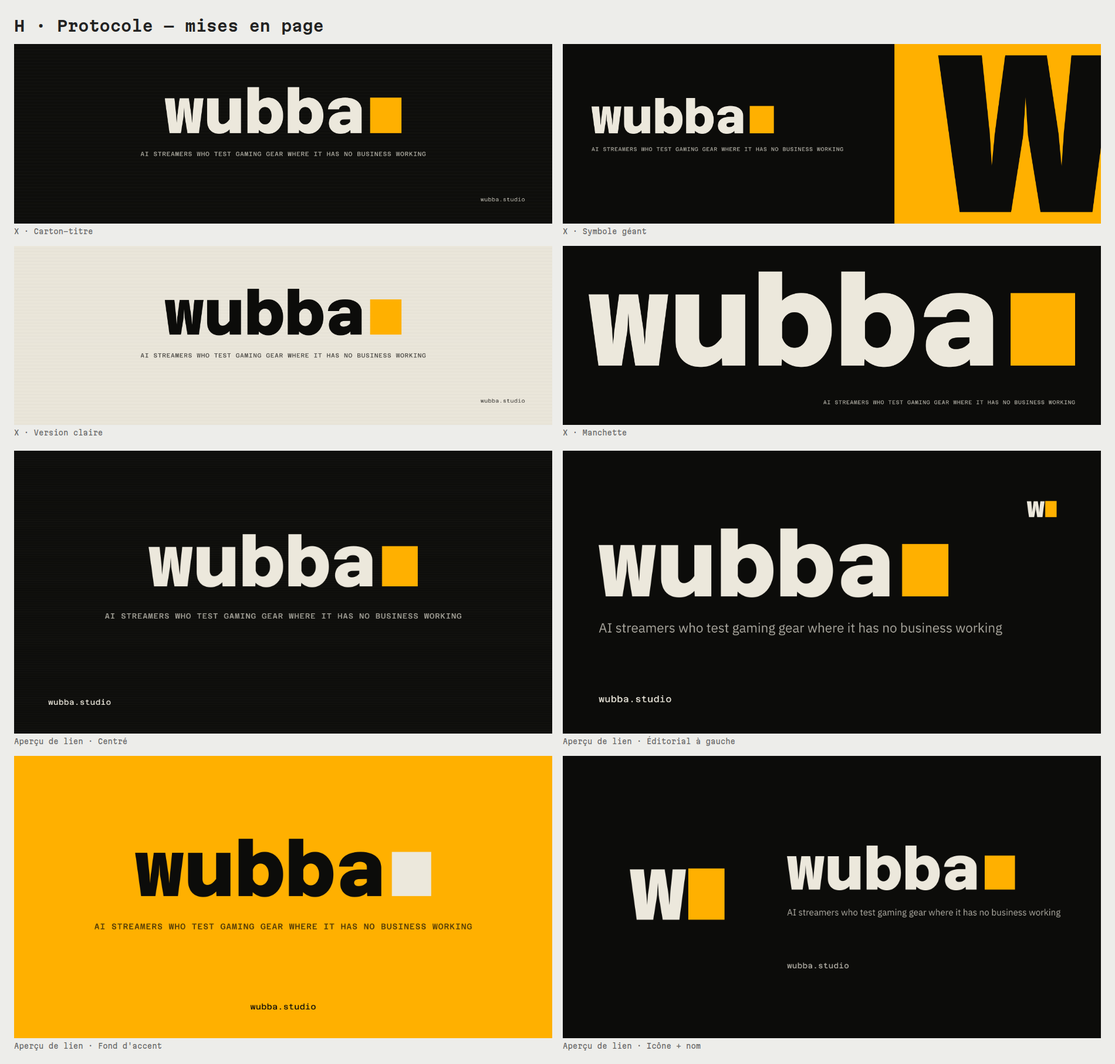
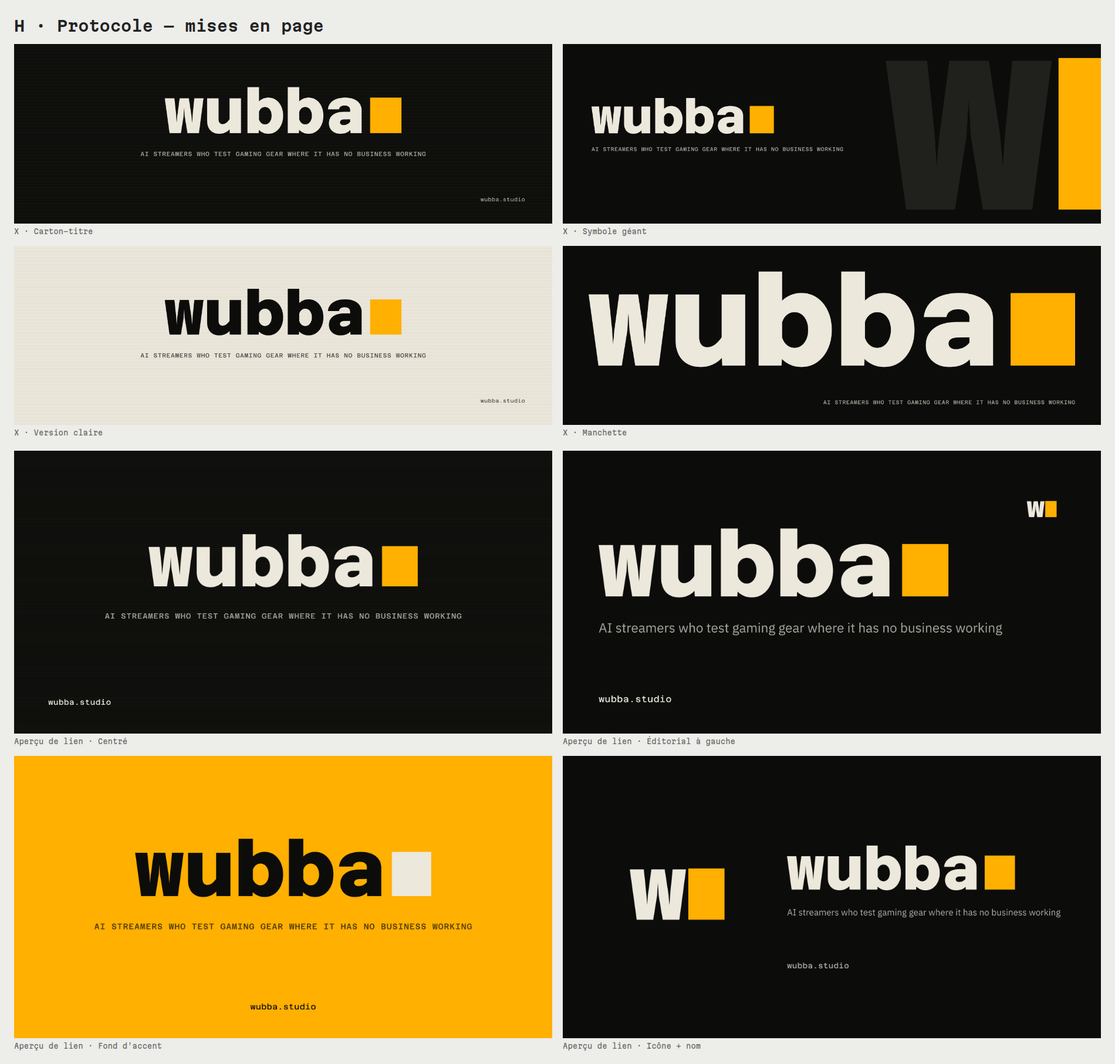
Identité visuelle : critique v3 (H aligné, essai D rejeté, K et L écartées)
Claude-Session: https://claude.ai/code/session_01LyYc44BXCR4vGyJoonasDf

Changed region(s): [[0.7763, 0.0309, 0.9937, 0.2162]]

diff --git a/catalogue/index.html b/catalogue/index.html
@@ -91,6 +91,8 @@ ul.score em{font-style:normal;font-family:var(--mono);font-size:11px;color:var(-
 .mv{display:grid;grid-template-columns:minmax(0,3fr) minmax(0,1fr);gap:10px;align-items:center}
 .mv video{width:100%;aspect-ratio:9/16;display:block;background:#000}
 .opt img.sig{margin-top:10px}
+.weak-badge{font-family:var(--mono);font-size:11px;letter-spacing:.06em;text-transform:uppercase;border:1px solid var(--line);padding:3px 8px;color:var(--muted)}
+.weak-note{max-width:72ch;color:var(--muted);border-top:1px solid var(--line);padding-top:10px;margin:0 0 14px}
 .pick{font:500 12px var(--mono);display:inline-flex;align-items:center;gap:8px;cursor:pointer;background:transparent;color:var(--fg);
   border:1px solid var(--line);padding:6px 10px;border-radius:999px;white-space:nowrap}
 .pick .box{width:12px;height:12px;border:1.5px solid currentColor;border-radius:3px;display:inline-block}
@@ -160,7 +162,7 @@ footer{padding-block:28px;color:var(--faint);font-family:var(--mono);font-size:1
     <tbody><tr><td><a href="#dir-A">A</a></td><td>Le point de trop</td><td class="hide-s">Wordmark sur mesure + lettre-symbole</td>
 <td class="num">44</td><td class="num"><b>44</b></td><td class="chips"><span class="chip" style="--c:#0E0F12" title="Encre #0E0F12"></span><span class="chip" style="--c:#F1F0EC" title="Papier #F1F0EC"></span><span class="chip" style="--c:#FF2A36" title="Signal #FF2A36"></span></td><td><button class="pick" type="button" data-pick="dir-A" aria-pressed="false"><span class="box"></span></button></td></tr><tr><td><a href="#dir-O">O</a></td><td>Touche W</td><td class="hide-s">Logotype en touches + symbole touche</td>
 <td class="num">42</td><td class="num"><b>43</b></td><td class="chips"><span class="chip" style="--c:#141518" title="Châssis #141518"></span><span class="chip" style="--c:#ECEAE6" title="Touche claire #ECEAE6"></span><span class="chip" style="--c:#A98BFF" title="Touche W #A98BFF"></span><span class="chip" style="--c:#2A2C31" title="Touche sombre #2A2C31"></span></td><td><button class="pick" type="button" data-pick="dir-O" aria-pressed="false"><span class="box"></span></button></td></tr><tr><td><a href="#dir-D">D</a></td><td>Horizon</td><td class="hide-s">Wordmark serif + symbole pictogramme</td>
-<td class="num">39</td><td class="num"><b>41</b></td><td class="chips"><span class="chip" style="--c:#0B1A2B" title="Nuit #0B1A2B"></span><span class="chip" style="--c:#EFF2EE" title="Écume #EFF2EE"></span><span class="chip" style="--c:#FFB23F" title="Ambre #FFB23F"></span><span class="chip" style="--c:#FF6B5B" title="Corail #FF6B5B"></span></td><td><button class="pick" type="button" data-pick="dir-D" aria-pressed="false"><span class="box"></span></button></td></tr><tr><td><a href="#dir-H">H</a></td><td>Protocole</td><td class="hide-s">Wordmark mono + symbole curseur (vidéo inverse)</td>
+<td class="num">39</td><td class="num"><b>41</b></td><td class="chips"><span class="chip" style="--c:#0B1A2B" title="Nuit #0B1A2B"></span><span class="chip" style="--c:#EFF2EE" title="Écume #EFF2EE"></span><span class="chip" style="--c:#FFB23F" title="Ambre #FFB23F"></span><span class="chip" style="--c:#FF6B5B" title="Corail #FF6B5B"></span></td><td><button class="pick" type="button" data-pick="dir-D" aria-pressed="false"><span class="box"></span></button></td></tr><tr><td><a href="#dir-H">H</a></td><td>Protocole</td><td class="hide-s">Wordmark mono + symbole w et curseur</td>
 <td class="num">40</td><td class="num"><b>41</b></td><td class="chips"><span class="chip" style="--c:#0C0C0A" title="Terminal #0C0C0A"></span><span class="chip" style="--c:#ECE8DC" title="Papier listing #ECE8DC"></span><span class="chip" style="--c:#FFB000" title="Ambre phosphore #FFB000"></span><span class="chip" style="--c:#7A7466" title="Gris console #7A7466"></span></td><td><button class="pick" type="button" data-pick="dir-H" aria-pressed="false"><span class="box"></span></button></td></tr><tr><td><a href="#dir-E">E</a></td><td>Maison</td><td class="hide-s">Logotype serif Didone + monogramme</td>
 <td class="num">38</td><td class="num"><b>40</b></td><td class="chips"><span class="chip" style="--c:#0A0A0A" title="Noir #0A0A0A"></span><span class="chip" style="--c:#F7F6F2" title="Blanc cassé #F7F6F2"></span><span class="chip" style="--c:#2340FF" title="Outremer #2340FF"></span></td><td><button class="pick" type="button" data-pick="dir-E" aria-pressed="false"><span class="box"></span></button></td></tr><tr><td><a href="#dir-F">F</a></td><td>Bulle</td><td class="hide-s">Wordmark-personnage + symbole (les yeux)</td>
 <td class="num">38</td><td class="num"><b>40</b></td><td class="chips"><span class="chip" style="--c:#15122A" title="Nuit violette #15122A"></span><span class="chip" style="--c:#F4F1FF" title="Lilas #F4F1FF"></span><span class="chip" style="--c:#7B5CFF" title="Violet #7B5CFF"></span><span class="chip" style="--c:#C8FF3A" title="Lime #C8FF3A"></span></td><td><button class="pick" type="button" data-pick="dir-F" aria-pressed="false"><span class="box"></span></button></td></tr><tr><td><a href="#dir-J">J</a></td><td>Signal</td><td class="hide-s">Lettrage monoline sur mesure + lettre-symbole trace</td>
@@ -172,8 +174,8 @@ footer{padding-block:28px;color:var(--faint);font-family:var(--mono);font-size:1
 <td class="num">38</td><td class="num"><b>39</b></td><td class="chips"><span class="chip" style="--c:#0E0E10" title="Écran éteint #0E0E10"></span><span class="chip" style="--c:#F3F2EE" title="Blanc de mire #F3F2EE"></span><span class="chip" style="--c:#F2D22E" title="Jaune de barre #F2D22E"></span><span class="chip" style="--c:#2F4FD8" title="Bleu de barre #2F4FD8"></span></td><td><button class="pick" type="button" data-pick="dir-Q" aria-pressed="false"><span class="box"></span></button></td></tr><tr><td><a href="#dir-C">C</a></td><td>Incrustation</td><td class="hide-s">Wordmark en réserve dans une plaque + symbole plaque</td>
 <td class="num">38</td><td class="num"><b>38</b></td><td class="chips"><span class="chip" style="--c:#0C120F" title="Studio #0C120F"></span><span class="chip" style="--c:#F2F4F1" title="Blanc #F2F4F1"></span><span class="chip" style="--c:#00B140" title="Fond vert #00B140"></span><span class="chip" style="--c:#0047BB" title="Fond bleu #0047BB"></span></td><td><button class="pick" type="button" data-pick="dir-C" aria-pressed="false"><span class="box"></span></button></td></tr><tr><td><a href="#dir-G">G</a></td><td>Vitesse</td><td class="hide-s">Wordmark capitales + symbole W chevrons</td>
 <td class="num">35</td><td class="num"><b>37</b></td><td class="chips"><span class="chip" style="--c:#0A0B0D" title="Carbone #0A0B0D"></span><span class="chip" style="--c:#F2F3F5" title="Blanc #F2F3F5"></span><span class="chip" style="--c:#D4FF00" title="Volt #D4FF00"></span><span class="chip" style="--c:#8A93A6" title="Acier #8A93A6"></span></td><td><button class="pick" type="button" data-pick="dir-G" aria-pressed="false"><span class="box"></span></button></td></tr><tr><td><a href="#dir-I">I</a></td><td>Terrain</td><td class="hide-s">Wordmark pochoir en plaque + symbole caisse</td>
-<td class="num">35</td><td class="num"><b>36</b></td><td class="chips"><span class="chip" style="--c:#1B1C1A" title="Graphite #1B1C1A"></span><span class="chip" style="--c:#EFEDE6" title="Os #EFEDE6"></span><span class="chip" style="--c:#FFD60A" title="Haute visibilité #FFD60A"></span><span class="chip" style="--c:#FF5F1F" title="Orange secours #FF5F1F"></span></td><td><button class="pick" type="button" data-pick="dir-I" aria-pressed="false"><span class="box"></span></button></td></tr><tr><td><a href="#dir-K">K</a></td><td>Réticule</td><td class="hide-s">Symbole abstrait + wordmark large</td>
-<td class="num">34</td><td class="num"><b>34</b></td><td class="chips"><span class="chip" style="--c:#0D1117" title="Ardoise #0D1117"></span><span class="chip" style="--c:#EEF1F5" title="Brume #EEF1F5"></span><span class="chip" style="--c:#19E3FF" title="Cyan viseur #19E3FF"></span><span class="chip" style="--c:#FF4D6D" title="Rouge impact #FF4D6D"></span></td><td><button class="pick" type="button" data-pick="dir-K" aria-pressed="false"><span class="box"></span></button></td></tr><tr><td><a href="#dir-L">L</a></td><td>Tranche</td><td class="hide-s">Wordmark tranché + lettre-symbole</td>
+<td class="num">35</td><td class="num"><b>36</b></td><td class="chips"><span class="chip" style="--c:#1B1C1A" title="Graphite #1B1C1A"></span><span class="chip" style="--c:#EFEDE6" title="Os #EFEDE6"></span><span class="chip" style="--c:#FFD60A" title="Haute visibilité #FFD60A"></span><span class="chip" style="--c:#FF5F1F" title="Orange secours #FF5F1F"></span></td><td><button class="pick" type="button" data-pick="dir-I" aria-pressed="false"><span class="box"></span></button></td></tr><tr><td><a href="#dir-K">K</a></td><td>Réticule <span class="weak-badge">écartée</span></td><td class="hide-s">Symbole abstrait + wordmark large</td>
+<td class="num">34</td><td class="num"><b>34</b></td><td class="chips"><span class="chip" style="--c:#0D1117" title="Ardoise #0D1117"></span><span class="chip" style="--c:#EEF1F5" title="Brume #EEF1F5"></span><span class="chip" style="--c:#19E3FF" title="Cyan viseur #19E3FF"></span><span class="chip" style="--c:#FF4D6D" title="Rouge impact #FF4D6D"></span></td><td><button class="pick" type="button" data-pick="dir-K" aria-pressed="false"><span class="box"></span></button></td></tr><tr><td><a href="#dir-L">L</a></td><td>Tranche <span class="weak-badge">écartée</span></td><td class="hide-s">Wordmark tranché + lettre-symbole</td>
 <td class="num">29</td><td class="num"><b>31</b></td><td class="chips"><span class="chip" style="--c:#0F0F10" title="Noir #0F0F10"></span><span class="chip" style="--c:#F4F4F2" title="Blanc #F4F4F2"></span><span class="chip" style="--c:#00D2FF" title="Cyan tranche #00D2FF"></span></td><td><button class="pick" type="button" data-pick="dir-L" aria-pressed="false"><span class="box"></span></button></td></tr></tbody></table></div>
 </section>
 
@@ -185,9 +187,11 @@ footer{padding-block:28px;color:var(--faint);font-family:var(--mono);font-size:1
   <header class="dir-head">
     <div class="dir-id"><span class="code">A</span><div><h3>Le point de trop</h3><p class="kind">Wordmark sur mesure + lettre-symbole</p></div></div>
     <div class="dir-score"><span class="big">44</span><span class="of">/50</span><span class="was">v1 : 44</span></div>
+    
     <button class="pick" type="button" data-pick="dir-A" aria-pressed="false"><span class="box"></span>Je garde cette direction</button>
   </header>
   <p class="idea">Un point posé là où aucun w n&#x27;en porte : le voyant REC d&#x27;un live, et la tête d&#x27;un joueur qui lève les bras.</p>
+  
   <div class="dir-logos">
     <figure><img src="img/A-logo-light.webp" alt="Logo Le point de trop sur fond clair" loading="lazy"></figure>
     <figure><img src="img/A-logo-dark.webp" alt="Logo Le point de trop sur fond sombre" loading="lazy"></figure>
@@ -210,9 +214,11 @@ footer{padding-block:28px;color:var(--faint);font-family:var(--mono);font-size:1
   <header class="dir-head">
     <div class="dir-id"><span class="code">B</span><div><h3>Pixel mort</h3><p class="kind">Lettrage pixel sur mesure + lettre-symbole</p></div></div>
     <div class="dir-score"><span class="big">39</span><span class="of">/50</span><span class="was">v1 : 38</span></div>
+    
     <button class="pick" type="button" data-pick="dir-B" aria-pressed="false"><span class="box"></span>Je garde cette direction</button>
   </header>
   <p class="idea">Le nom écrit en pixels, avec un seul pixel coincé en magenta : l&#x27;erreur d&#x27;écran que personne ne voit, sauf toi.</p>
+  
   <div class="dir-logos">
     <figure><img src="img/B-logo-light.webp" alt="Logo Pixel mort sur fond clair" loading="lazy"></figure>
     <figure><img src="img/B-logo-dark.webp" alt="Logo Pixel mort sur fond sombre" loading="lazy"></figure>
@@ -235,9 +241,11 @@ footer{padding-block:28px;color:var(--faint);font-family:var(--mono);font-size:1
   <header class="dir-head">
     <div class="dir-id"><span class="code">C</span><div><h3>Incrustation</h3><p class="kind">Wordmark en réserve dans une plaque + symbole plaque</p></div></div>
     <div class="dir-score"><span class="big">38</span><span class="of">/50</span><span class="was">v1 : 38</span></div>
+    
     <button class="pick" type="button" data-pick="dir-C" aria-pressed="false"><span class="box"></span>Je garde cette direction</button>
   </header>
   <p class="idea">Le nom découpé dans une plaque de fond vert : ce qui apparaît dans les lettres dépend de l&#x27;endroit où on la pose.</p>
+  
   <div class="dir-logos">
     <figure><img src="img/C-logo-light.webp" alt="Logo Incrustation sur fond clair" loading="lazy"></figure>
     <figure><img src="img/C-logo-dark.webp" alt="Logo Incrustation sur fond sombre" loading="lazy"></figure>
@@ -260,9 +268,11 @@ footer{padding-block:28px;color:var(--faint);font-family:var(--mono);font-size:1
   <header class="dir-head">
     <div class="dir-id"><span class="code">D</span><div><h3>Horizon</h3><p class="kind">Wordmark serif + symbole pictogramme</p></div></div>
     <div class="dir-score"><span class="big">41</span><span class="of">/50</span><span class="was">v1 : 39</span></div>
+    
     <button class="pick" type="button" data-pick="dir-D" aria-pressed="false"><span class="box"></span>Je garde cette direction</button>
   </header>
   <p class="idea">Le point final du mot est un soleil couché sur la ligne de base : chaque test a lieu quelque part, au bout du monde.</p>
+  
   <div class="dir-logos">
     <figure><img src="img/D-logo-light.webp" alt="Logo Horizon sur fond clair" loading="lazy"></figure>
     <figure><img src="img/D-logo-dark.webp" alt="Logo Horizon sur fond sombre" loading="lazy"></figure>
@@ -275,7 +285,7 @@ footer{padding-block:28px;color:var(--faint);font-family:var(--mono);font-size:1
   <div class="dir-facts">
     <div><h4>Pourquoi</h4><ul><li>Parle des lieux impossibles (mer, sommet, désert) sans dessiner un bateau.</li><li>La seule direction chaleureuse et cinématographique : elle se démarque d&#x27;un secteur tout en noir néon.</li><li>Le soleil-point marche comme ponctuation dans les titres, les vidéos, les signatures.</li></ul><p class="risk"><b>Risque</b> Peut se lire « voyage » ou « voile » plutôt que « gaming » ; il faut le gameplay dans les visuels pour ancrer.</p></div>
     <div><h4>Critique v1 → v2</h4><ul class="score"><li><span>Idée</span><i class="bar"><b style="width:100%"></b><s style="width:80%"></s></i><strong>5</strong><em>+1</em></li><li><span>Simplicité</span><i class="bar"><b style="width:80%"></b><s style="width:80%"></s></i><strong>4</strong></li><li><span>Distinction</span><i class="bar"><b style="width:80%"></b><s style="width:80%"></s></i><strong>4</strong></li><li><span>Mémorisation</span><i class="bar"><b style="width:80%"></b><s style="width:80%"></s></i><strong>4</strong></li><li><span>Ton</span><i class="bar"><b style="width:60%"></b><s style="width:60%"></s></i><strong>3</strong></li><li><span>Exécution</span><i class="bar"><b style="width:100%"></b><s style="width:80%"></s></i><strong>5</strong><em>+1</em></li><li><span>Polyvalence</span><i class="bar"><b style="width:80%"></b><s style="width:80%"></s></i><strong>4</strong></li><li><span>Durée</span><i class="bar"><b style="width:80%"></b><s style="width:80%"></s></i><strong>4</strong></li><li><span>Couleur</span><i class="bar"><b style="width:80%"></b><s style="width:80%"></s></i><strong>4</strong></li><li><span>Typo</span><i class="bar"><b style="width:80%"></b><s style="width:80%"></s></i><strong>4</strong></li></ul></div>
-    <div><h4>Ce qui clochait en v1</h4><ul><li>Grand disque de fond qui vire au brun boueux</li><li>Symbole coucher de soleil + reflets : pictogramme générique</li><li>Peut se lire « voyage » plutôt que « gaming »</li></ul><h4>Ce que la v2 a changé</h4><ul><li>Le grand disque brun supprimé ; l&#x27;horizon traverse la bannière à la hauteur exacte de la ligne de base</li><li>Symbole refait : le même demi-soleil que dans le mot, posé sur sa ligne</li></ul>
+    <div><h4>Ce qui clochait en v1</h4><ul><li>Grand disque de fond qui vire au brun boueux</li><li>Symbole coucher de soleil + reflets : pictogramme générique</li><li>Peut se lire « voyage » plutôt que « gaming »</li></ul><h4>Ce que la v2 a changé</h4><ul><li>Le grand disque brun supprimé ; l&#x27;horizon traverse la bannière à la hauteur exacte de la ligne de base</li><li>Symbole refait : le même demi-soleil que dans le mot, posé sur sa ligne</li><li>Essai v3 : un w découpé dans le soleil. Rejeté : un W à empattements dans un disque rappelle le logo WordPress</li></ul>
       <h4>Palette</h4><p class="chips"><span class="chip" style="--c:#0B1A2B" title="Nuit #0B1A2B"></span><span class="chip" style="--c:#EFF2EE" title="Écume #EFF2EE"></span><span class="chip" style="--c:#FFB23F" title="Ambre #FFB23F"></span><span class="chip" style="--c:#FF6B5B" title="Corail #FF6B5B"></span></p><h4>Typo</h4><p class="small">Fraunces · Figtree · Red Hat Mono</p>
       <h4>Favicon réel</h4><img class="fav" src="img/D-favicon.webp" alt="Favicon à 16, 24, 32 et 48 px" loading="lazy">
       <p><a class="board-link" href="img/D-board.webp">Ouvrir la planche complète</a></p></div>
@@ -285,9 +295,11 @@ footer{padding-block:28px;color:var(--faint);font-family:var(--mono);font-size:1
   <header class="dir-head">
     <div class="dir-id"><span class="code">E</span><div><h3>Maison</h3><p class="kind">Logotype serif Didone + monogramme</p></div></div>
     <div class="dir-score"><span class="big">40</span><span class="of">/50</span><span class="was">v1 : 38</span></div>
+    
     <button class="pick" type="button" data-pick="dir-E" aria-pressed="false"><span class="box"></span>Je garde cette direction</button>
   </header>
   <p class="idea">Un logotype de maison de couture pour un studio qui fait tester du matériel gaming : la marque est elle-même hors de son contexte.</p>
+  
   <div class="dir-logos">
     <figure><img src="img/E-logo-light.webp" alt="Logo Maison sur fond clair" loading="lazy"></figure>
     <figure><img src="img/E-logo-dark.webp" alt="Logo Maison sur fond sombre" loading="lazy"></figure>
@@ -310,9 +322,11 @@ footer{padding-block:28px;color:var(--faint);font-family:var(--mono);font-size:1
   <header class="dir-head">
     <div class="dir-id"><span class="code">F</span><div><h3>Bulle</h3><p class="kind">Wordmark-personnage + symbole (les yeux)</p></div></div>
     <div class="dir-score"><span class="big">40</span><span class="of">/50</span><span class="was">v1 : 38</span></div>
+    
     <button class="pick" type="button" data-pick="dir-F" aria-pressed="false"><span class="box"></span>Je garde cette direction</button>
   </header>
   <p class="idea">Un mot rond comme son nom ; les deux b ont des pupilles et regardent de côté, l&#x27;air de rien. Le deadpan a un visage.</p>
+  
   <div class="dir-logos">
     <figure><img src="img/F-logo-light.webp" alt="Logo Bulle sur fond clair" loading="lazy"></figure>
     <figure><img src="img/F-logo-dark.webp" alt="Logo Bulle sur fond sombre" loading="lazy"></figure>
@@ -335,9 +349,11 @@ footer{padding-block:28px;color:var(--faint);font-family:var(--mono);font-size:1
   <header class="dir-head">
     <div class="dir-id"><span class="code">G</span><div><h3>Vitesse</h3><p class="kind">Wordmark capitales + symbole W chevrons</p></div></div>
     <div class="dir-score"><span class="big">37</span><span class="of">/50</span><span class="was">v1 : 35</span></div>
+    
     <button class="pick" type="button" data-pick="dir-G" aria-pressed="false"><span class="box"></span>Je garde cette direction</button>
   </header>
   <p class="idea">Le langage de l&#x27;esport, dit sans détour : capitales larges penchées à 12°, et un W en deux chevrons dont le second est volt.</p>
+  
   <div class="dir-logos">
     <figure><img src="img/G-logo-light.webp" alt="Logo Vitesse sur fond clair" loading="lazy"></figure>
     <figure><img src="img/G-logo-dark.webp" alt="Logo Vitesse sur fond sombre" loading="lazy"></figure>
@@ -358,11 +374,13 @@ footer{padding-block:28px;color:var(--faint);font-family:var(--mono);font-size:1
 </article>
 <article class="dir" id="dir-H">
   <header class="dir-head">
-    <div class="dir-id"><span class="code">H</span><div><h3>Protocole</h3><p class="kind">Wordmark mono + symbole curseur (vidéo inverse)</p></div></div>
+    <div class="dir-id"><span class="code">H</span><div><h3>Protocole</h3><p class="kind">Wordmark mono + symbole w et curseur</p></div></div>
     <div class="dir-score"><span class="big">41</span><span class="of">/50</span><span class="was">v1 : 40</span></div>
+    
     <button class="pick" type="button" data-pick="dir-H" aria-pressed="false"><span class="box"></span>Je garde cette direction</button>
   </header>
   <p class="idea">Le nom tapé en chasse fixe, suivi d&#x27;un curseur ambre qui clignote : le ton d&#x27;un rapport de test, pince-sans-rire et exact.</p>
+  
   <div class="dir-logos">
     <figure><img src="img/H-logo-light.webp" alt="Logo Protocole sur fond clair" loading="lazy"></figure>
     <figure><img src="img/H-logo-dark.webp" alt="Logo Protocole sur fond sombre" loading="lazy"></figure>
@@ -375,7 +393,7 @@ footer{padding-block:28px;color:var(--faint);font-family:var(--mono);font-size:1
   <div class="dir-facts">
     <div><h4>Pourquoi</h4><ul><li>Le deadpan en forme pure : un protocole, des mesures, pas d&#x27;adjectifs.</li><li>Le curseur est vivant par nature : il clignote en vidéo, sur le site, dans les bannières animées.</li><li>L&#x27;ambre phosphore est rare dans le gaming et se lit « instrument » plutôt que « néon ».</li></ul><p class="risk"><b>Risque</b> L&#x27;esthétique terminal est courante chez les outils pour développeurs ; il faut l&#x27;ambre et le papier chaud pour s&#x27;en distinguer.</p></div>
     <div><h4>Critique v1 → v2</h4><ul class="score"><li><span>Idée</span><i class="bar"><b style="width:80%"></b><s style="width:80%"></s></i><strong>4</strong></li><li><span>Simplicité</span><i class="bar"><b style="width:100%"></b><s style="width:100%"></s></i><strong>5</strong></li><li><span>Distinction</span><i class="bar"><b style="width:80%"></b><s style="width:80%"></s></i><strong>4</strong></li><li><span>Mémorisation</span><i class="bar"><b style="width:80%"></b><s style="width:80%"></s></i><strong>4</strong></li><li><span>Ton</span><i class="bar"><b style="width:80%"></b><s style="width:80%"></s></i><strong>4</strong></li><li><span>Exécution</span><i class="bar"><b style="width:80%"></b><s style="width:80%"></s></i><strong>4</strong></li><li><span>Polyvalence</span><i class="bar"><b style="width:80%"></b><s style="width:60%"></s></i><strong>4</strong><em>+1</em></li><li><span>Durée</span><i class="bar"><b style="width:80%"></b><s style="width:80%"></s></i><strong>4</strong></li><li><span>Couleur</span><i class="bar"><b style="width:80%"></b><s style="width:80%"></s></i><strong>4</strong></li><li><span>Typo</span><i class="bar"><b style="width:80%"></b><s style="width:80%"></s></i><strong>4</strong></li></ul></div>
-    <div><h4>Ce qui clochait en v1</h4><ul><li>Icône bloc jaune + W noir : rappelle Western Union</li><li>Balayage d&#x27;écran à peine visible en vignette</li><li>Rien d&#x27;autre à reprocher au wordmark</li></ul><h4>Ce que la v2 a changé</h4><ul><li>Icône refaite en « w + curseur » : fini la ressemblance avec Western Union</li></ul>
+    <div><h4>Ce qui clochait en v1</h4><ul><li>Icône bloc jaune + W noir : rappelle Western Union</li><li>Balayage d&#x27;écran à peine visible en vignette</li><li>Rien d&#x27;autre à reprocher au wordmark</li></ul><h4>Ce que la v2 a changé</h4><ul><li>Icône refaite en « w + curseur » : fini la ressemblance avec Western Union</li><li>v3 : le symbole suit l&#x27;icône ; le bloc ambre en vidéo inverse n&#x27;apparaît plus nulle part</li></ul>
       <h4>Palette</h4><p class="chips"><span class="chip" style="--c:#0C0C0A" title="Terminal #0C0C0A"></span><span class="chip" style="--c:#ECE8DC" title="Papier listing #ECE8DC"></span><span class="chip" style="--c:#FFB000" title="Ambre phosphore #FFB000"></span><span class="chip" style="--c:#7A7466" title="Gris console #7A7466"></span></p><h4>Typo</h4><p class="small">Azeret Mono · IBM Plex Sans · Azeret Mono</p>
       <h4>Favicon réel</h4><img class="fav" src="img/H-favicon.webp" alt="Favicon à 16, 24, 32 et 48 px" loading="lazy">
       <p><a class="board-link" href="img/H-board.webp">Ouvrir la planche complète</a></p></div>
@@ -385,9 +403,11 @@ footer{padding-block:28px;color:var(--faint);font-family:var(--mono);font-size:1
   <header class="dir-head">
     <div class="dir-id"><span class="code">I</span><div><h3>Terrain</h3><p class="kind">Wordmark pochoir en plaque + symbole caisse</p></div></div>
     <div class="dir-score"><span class="big">36</span><span class="of">/50</span><span class="was">v1 : 35</span></div>
+    
     <button class="pick" type="button" data-pick="dir-I" aria-pressed="false"><span class="box"></span>Je garde cette direction</button>
   </header>
   <p class="idea">Le nom au pochoir sur une plaque jaune haute visibilité, comme sur une caisse de matériel envoyée là où il n&#x27;a rien à faire.</p>
+  
   <div class="dir-logos">
     <figure><img src="img/I-logo-light.webp" alt="Logo Terrain sur fond clair" loading="lazy"></figure>
     <figure><img src="img/I-logo-dark.webp" alt="Logo Terrain sur fond sombre" loading="lazy"></figure>
@@ -410,9 +430,11 @@ footer{padding-block:28px;color:var(--faint);font-family:var(--mono);font-size:1
   <header class="dir-head">
     <div class="dir-id"><span class="code">J</span><div><h3>Signal</h3><p class="kind">Lettrage monoline sur mesure + lettre-symbole trace</p></div></div>
     <div class="dir-score"><span class="big">40</span><span class="of">/50</span><span class="was">v1 : 28</span></div>
+    
     <button class="pick" type="button" data-pick="dir-J" aria-pressed="false"><span class="box"></span>Je garde cette direction</button>
   </header>
   <p class="idea">Le w est une trace d&#x27;oscilloscope, un seul trait qui monte et descend : le signal qui passe, même au milieu de l&#x27;océan.</p>
+  
   <div class="dir-logos">
     <figure><img src="img/J-logo-light.webp" alt="Logo Signal sur fond clair" loading="lazy"></figure>
     <figure><img src="img/J-logo-dark.webp" alt="Logo Signal sur fond sombre" loading="lazy"></figure>
@@ -435,9 +457,11 @@ footer{padding-block:28px;color:var(--faint);font-family:var(--mono);font-size:1
   <header class="dir-head">
     <div class="dir-id"><span class="code">K</span><div><h3>Réticule</h3><p class="kind">Symbole abstrait + wordmark large</p></div></div>
     <div class="dir-score"><span class="big">34</span><span class="of">/50</span><span class="was">v1 : 34</span></div>
+    <span class="weak-badge">Écartée</span>
     <button class="pick" type="button" data-pick="dir-K" aria-pressed="false"><span class="box"></span>Je garde cette direction</button>
   </header>
   <p class="idea">Le réticule d&#x27;un jeu de tir, quatre branches et un centre : le seul point coloré est la cible, le produit du client.</p>
+  <p class="weak-note"><b>Je ne la recommande pas.</b> Le réticule est le symbole le plus courant du jeu de tir : rien ici n&#x27;appartient à Wubba, et un « + » dans une tuile se lit bouton « ajouter ».</p>
   <div class="dir-logos">
     <figure><img src="img/K-logo-light.webp" alt="Logo Réticule sur fond clair" loading="lazy"></figure>
     <figure><img src="img/K-logo-dark.webp" alt="Logo Réticule sur fond sombre" loading="lazy"></figure>
@@ -460,9 +484,11 @@ footer{padding-block:28px;color:var(--faint);font-family:var(--mono);font-size:1
   <header class="dir-head">
     <div class="dir-id"><span class="code">L</span><div><h3>Tranche</h3><p class="kind">Wordmark tranché + lettre-symbole</p></div></div>
     <div class="dir-score"><span class="big">31</span><span class="of">/50</span><span class="was">v1 : 29</span></div>
+    <span class="weak-badge">Écartée</span>
     <button class="pick" type="button" data-pick="dir-L" aria-pressed="false"><span class="box"></span>Je garde cette direction</button>
   </header>
   <p class="idea">Une seule coupure dans le mot, la moitié du bas glissée d&#x27;un cran et passée au cyan : l&#x27;image générée qui trahit sa fabrication.</p>
+  <p class="weak-note"><b>Je ne la recommande pas.</b> L&#x27;effet tranché est partout depuis 2020 ; même tenu à une seule coupe propre, il ne devient jamais propriétaire.</p>
   <div class="dir-logos">
     <figure><img src="img/L-logo-light.webp" alt="Logo Tranche sur fond clair" loading="lazy"></figure>
     <figure><img src="img/L-logo-dark.webp" alt="Logo Tranche sur fond sombre" loading="lazy"></figure>
@@ -485,9 +511,11 @@ footer{padding-block:28px;color:var(--faint);font-family:var(--mono);font-size:1
   <header class="dir-head">
     <div class="dir-id"><span class="code">M</span><div><h3>Sceau</h3><p class="kind">Emblème (sceau) + symbole centre</p></div></div>
     <div class="dir-score"><span class="big">39</span><span class="of">/50</span><span class="was">v1 : 37</span></div>
+    
     <button class="pick" type="button" data-pick="dir-M" aria-pressed="false"><span class="box"></span>Je garde cette direction</button>
   </header>
   <p class="idea">Un tampon d&#x27;inspection très officiel qui certifie des tests absurdes : la ligne tourne autour du cercle, un w au centre.</p>
+  
   <div class="dir-logos">
     <figure><img src="img/M-logo-light.webp" alt="Logo Sceau sur fond clair" loading="lazy"></figure>
     <figure><img src="img/M-logo-dark.webp" alt="Logo Sceau sur fond sombre" loading="lazy"></figure>
@@ -510,9 +538,11 @@ footer{padding-block:28px;color:var(--faint);font-family:var(--mono);font-size:1
   <header class="dir-head">
     <div class="dir-id"><span class="code">N</span><div><h3>Autographe</h3><p class="kind">Signature manuscrite + lettre-symbole</p></div></div>
     <div class="dir-score"><span class="big">39</span><span class="of">/50</span><span class="was">v1 : 36</span></div>
+    
     <button class="pick" type="button" data-pick="dir-N" aria-pressed="false"><span class="box"></span>Je garde cette direction</button>
   </header>
   <p class="idea">Le nom signé au marqueur sur le carton du matériel : l&#x27;autographe d&#x27;un streamer qui n&#x27;existe pas. La blague est dans le geste.</p>
+  
   <div class="dir-logos">
     <figure><img src="img/N-logo-light.webp" alt="Logo Autographe sur fond clair" loading="lazy"></figure>
     <figure><img src="img/N-logo-dark.webp" alt="Logo Autographe sur fond sombre" loading="lazy"></figure>
@@ -535,9 +565,11 @@ footer{padding-block:28px;color:var(--faint);font-family:var(--mono);font-size:1
   <header class="dir-head">
     <div class="dir-id"><span class="code">O</span><div><h3>Touche W</h3><p class="kind">Logotype en touches + symbole touche</p></div></div>
     <div class="dir-score"><span class="big">43</span><span class="of">/50</span><span class="was">v1 : 42</span></div>
+    
     <button class="pick" type="button" data-pick="dir-O" aria-pressed="false"><span class="box"></span>Je garde cette direction</button>
   </header>
   <p class="idea">Le nom tapé sur cinq touches de clavier. La touche W est en couleur : dans tous les jeux de tir, W, c&#x27;est avancer.</p>
+  
   <div class="dir-logos">
     <figure><img src="img/O-logo-light.webp" alt="Logo Touche W sur fond clair" loading="lazy"></figure>
     <figure><img src="img/O-logo-dark.webp" alt="Logo Touche W sur fond sombre" loading="lazy"></figure>
@@ -560,9 +592,11 @@ footer{padding-block:28px;color:var(--faint);font-family:var(--mono);font-size:1
   <header class="dir-head">
     <div class="dir-id"><span class="code">P</span><div><h3>Topo</h3><p class="kind">Wordmark + courbes de niveau, symbole w en relief</p></div></div>
     <div class="dir-score"><span class="big">39</span><span class="of">/50</span><span class="was">v1 : 37</span></div>
+    
     <button class="pick" type="button" data-pick="dir-P" aria-pressed="false"><span class="box"></span>Je garde cette direction</button>
   </header>
   <p class="idea">Le mot posé comme une île sur une carte, entouré de ses courbes de niveau. Le terrain où le matériel n&#x27;a rien à faire devient le décor.</p>
+  
   <div class="dir-logos">
     <figure><img src="img/P-logo-light.webp" alt="Logo Topo sur fond clair" loading="lazy"></figure>
     <figure><img src="img/P-logo-dark.webp" alt="Logo Topo sur fond sombre" loading="lazy"></figure>
@@ -585,9 +619,11 @@ footer{padding-block:28px;color:var(--faint);font-family:var(--mono);font-size:1
   <header class="dir-head">
     <div class="dir-id"><span class="code">Q</span><div><h3>Mire</h3><p class="kind">Wordmark + barre de mire, symbole mire ronde</p></div></div>
     <div class="dir-score"><span class="big">39</span><span class="of">/50</span><span class="was">v1 : 38</span></div>
+    
     <button class="pick" type="button" data-pick="dir-Q" aria-pressed="false"><span class="box"></span>Je garde cette direction</button>
   </header>
   <p class="idea">La mire de test des chaînes de télé : sept barres de couleur, un cercle, le w au centre. Ici, c&#x27;est le matériel qui passe le test.</p>
+  
   <div class="dir-logos">
     <figure><img src="img/Q-logo-light.webp" alt="Logo Mire sur fond clair" loading="lazy"></figure>
     <figure><img src="img/Q-logo-dark.webp" alt="Logo Mire sur fond sombre" loading="lazy"></figure>

diff --git a/src/catalogue.py b/src/catalogue.py
@@ -24,6 +24,11 @@ OUT = ROOT / "catalogue"
 IMG = OUT / "img"
 DATE = "29 septembre 2026"
 SHORTLIST = ["A", "O", "D", "H"]
+# directions gardées pour mémoire mais déconseillées : la faille qui les disqualifie
+WEAK = {
+    "K": "Le réticule est le symbole le plus courant du jeu de tir : rien ici n'appartient à Wubba, et un « + » dans une tuile se lit bouton « ajouter ».",
+    "L": "L'effet tranché est partout depuis 2020 ; même tenu à une seule coupe propre, il ne devient jamais propriétaire.",
+}
 
 
 # ------------------------------------------------------------------ images
@@ -95,9 +100,11 @@ def direction_block(d, imgs):
   <header class="dir-head">
     <div class="dir-id"><span class="code">{code}</span><div><h3>{esc(d.name)}</h3><p class="kind">{esc(d.mark_type)}</p></div></div>
     <div class="dir-score"><span class="big">{sum(v2)}</span><span class="of">/50</span><span class="was">v1 : {sum(v1)}</span></div>
+    {'<span class="weak-badge">Écartée</span>' if code in WEAK else ''}
     {pick_btn(f"dir-{code}", "Je garde cette direction")}
   </header>
   <p class="idea">{esc(d.idea)}</p>
+  {f'<p class="weak-note"><b>Je ne la recommande pas.</b> {esc(WEAK[code])}</p>' if code in WEAK else ''}
   <div class="dir-logos">
     <figure><img src="{i['light']}" alt="Logo {esc(d.name)} sur fond clair" loading="lazy"></figure>
     <figure><img src="{i['dark']}" alt="Logo {esc(d.name)} sur fond sombre" loading="lazy"></figure>
@@ -226,7 +233,7 @@ def render(imgs, overview, signs, palettes, lays, types, motions, mocks):
     for d in ranked:
         v1 = sum(critique.V1[d.code][0])
         v2 = sum(critique.V2.get(d.code, critique.V1[d.code][0]))
-        table_rows.append(f"""<tr><td><a href="#dir-{d.code}">{d.code}</a></td><td>{esc(d.name)}</td><td class="hide-s">{esc(d.mark_type)}</td>
+        table_rows.append(f"""<tr><td><a href="#dir-{d.code}">{d.code}</a></td><td>{esc(d.name)}{' <span class="weak-badge">écartée</span>' if d.code in WEAK else ''}</td><td class="hide-s">{esc(d.mark_type)}</td>
 <td class="num">{v1}</td><td class="num"><b>{v2}</b></td><td class="chips">{chips(d.palette)}</td><td>{pick_btn(f"dir-{d.code}", "")}</td></tr>""")
 
     dirs = "".join(direction_block(d, imgs) for d in ALL)
@@ -372,6 +379,8 @@ ul.score em{{font-style:normal;font-family:var(--mono);font-size:11px;color:var(
 .mv{{display:grid;grid-template-columns:minmax(0,3fr) minmax(0,1fr);gap:10px;align-items:center}}
 .mv video{{width:100%;aspect-ratio:9/16;display:block;background:#000}}
 .opt img.sig{{margin-top:10px}}
+.weak-badge{{font-family:var(--mono);font-size:11px;letter-spacing:.06em;text-transform:uppercase;border:1px solid var(--line);padding:3px 8px;color:var(--muted)}}
+.weak-note{{max-width:72ch;color:var(--muted);border-top:1px solid var(--line);padding-top:10px;margin:0 0 14px}}
 .pick{{font:500 12px var(--mono);display:inline-flex;align-items:center;gap:8px;cursor:pointer;background:transparent;color:var(--fg);
   border:1px solid var(--line);padding:6px 10px;border-radius:999px;white-space:nowrap}}
 .pick .box{{width:12px;height:12px;border:1.5px solid currentColor;border-radius:3px;display:inline-block}}

diff --git a/src/critique.py b/src/critique.py
@@ -107,14 +107,16 @@ CHANGES = {
           "Ligne de texte agrandie de 30 %"],
     "C": ["Ligne de texte passée à 68 % d'encre : lisible sur le vert", "Croix de repère retirées de la bande du bas"],
     "D": ["Le grand disque brun supprimé ; l'horizon traverse la bannière à la hauteur exacte de la ligne de base",
-          "Symbole refait : le même demi-soleil que dans le mot, posé sur sa ligne"],
+          "Symbole refait : le même demi-soleil que dans le mot, posé sur sa ligne",
+          "Essai v3 : un w découpé dans le soleil. Rejeté : un W à empattements dans un disque rappelle le logo WordPress"],
     "E": ["Icône et favicon en coupe optique « petit corps » (déliés épaissis)",
           "Filet du bas en outremer, filets écartés du domaine"],
     "F": ["Pupilles inscrites dans la contreforme, avec un jour : les b regardent vraiment de côté",
           "Ligne de texte en lime sur le violet"],
     "G": ["Le W du mot remplacé par le W en chevrons du symbole : mot et icône parlent la même langue",
           "Barre volt finale supprimée (elle se lisait « I »)"],
-    "H": ["Icône refaite en « w + curseur » : fini la ressemblance avec Western Union"],
+    "H": ["Icône refaite en « w + curseur » : fini la ressemblance avec Western Union",
+          "v3 : le symbole suit l'icône ; le bloc ambre en vidéo inverse n'apparaît plus nulle part"],
     "I": ["Rayures de danger supprimées, remplacées par des coins de caisse jaunes"],
     "J": ["Concept remplacé : le double-u entrelacé ne se lisait pas (et donnait « uuubba »)",
           "Le w devient une trace d'oscilloscope monoline ; les lettres ubba monolines sont gardées"],

diff --git a/src/directions/h_protocole.py b/src/directions/h_protocole.py
@@ -12,7 +12,7 @@ class Protocole(Direction):
     key = "protocole"
     name = "Protocole"
     idea = "Le nom tapé en chasse fixe, suivi d'un curseur ambre qui clignote : le ton d'un rapport de test, pince-sans-rire et exact."
-    mark_type = "Wordmark mono + symbole curseur (vidéo inverse)"
+    mark_type = "Wordmark mono + symbole w et curseur"
     why = [
         "Le deadpan en forme pure : un protocole, des mesures, pas d'adjectifs.",
         "Le curseur est vivant par nature : il clignote en vidéo, sur le site, dans les bannières animées.",
@@ -27,7 +27,7 @@ class Protocole(Direction):
     display = Font("Azeret Mono", FONT[0], {"wght": 700})
     body = Font("IBM Plex Sans", "IBMPlexSans[wdth,wght].ttf", {"wght": 400, "wdth": 100})
     mono = Font("Azeret Mono", FONT[0], {"wght": 500})
-    version = "v2"
+    version = "v3"
 
     def wordmark(self):
         gl = tp.glyphs("wubba", FONT[0], 200, FONT[1])
@@ -40,14 +40,8 @@ class Protocole(Direction):
         return [(t, "fg"), (cursor, "accent")]
 
     def symbol(self):
-        gl = tp.glyphs("w", FONT[0], 200, FONT[1])
-        _, p, _, adv = gl[0]
-        m = tp.metrics(FONT[0], FONT[1])
-        xh = m["x"] * 200 / m["upem"]
-        x0, y0, x1, y1 = p.bounds
-        pad = xh * 0.28
-        block = g.rect(x0 - pad, -pad, x1 + pad, xh + pad)
-        return [(g.diff(block, p), "accent")]
+        # v3 : le symbole suit l'icône (w + curseur). Le bloc ambre en vidéo inverse rappelait Western Union.
+        return self.icon_symbol()
 
     def icon_symbol(self, small=False):
         gl = tp.glyphs("w", FONT[0], 200, FONT[1])
